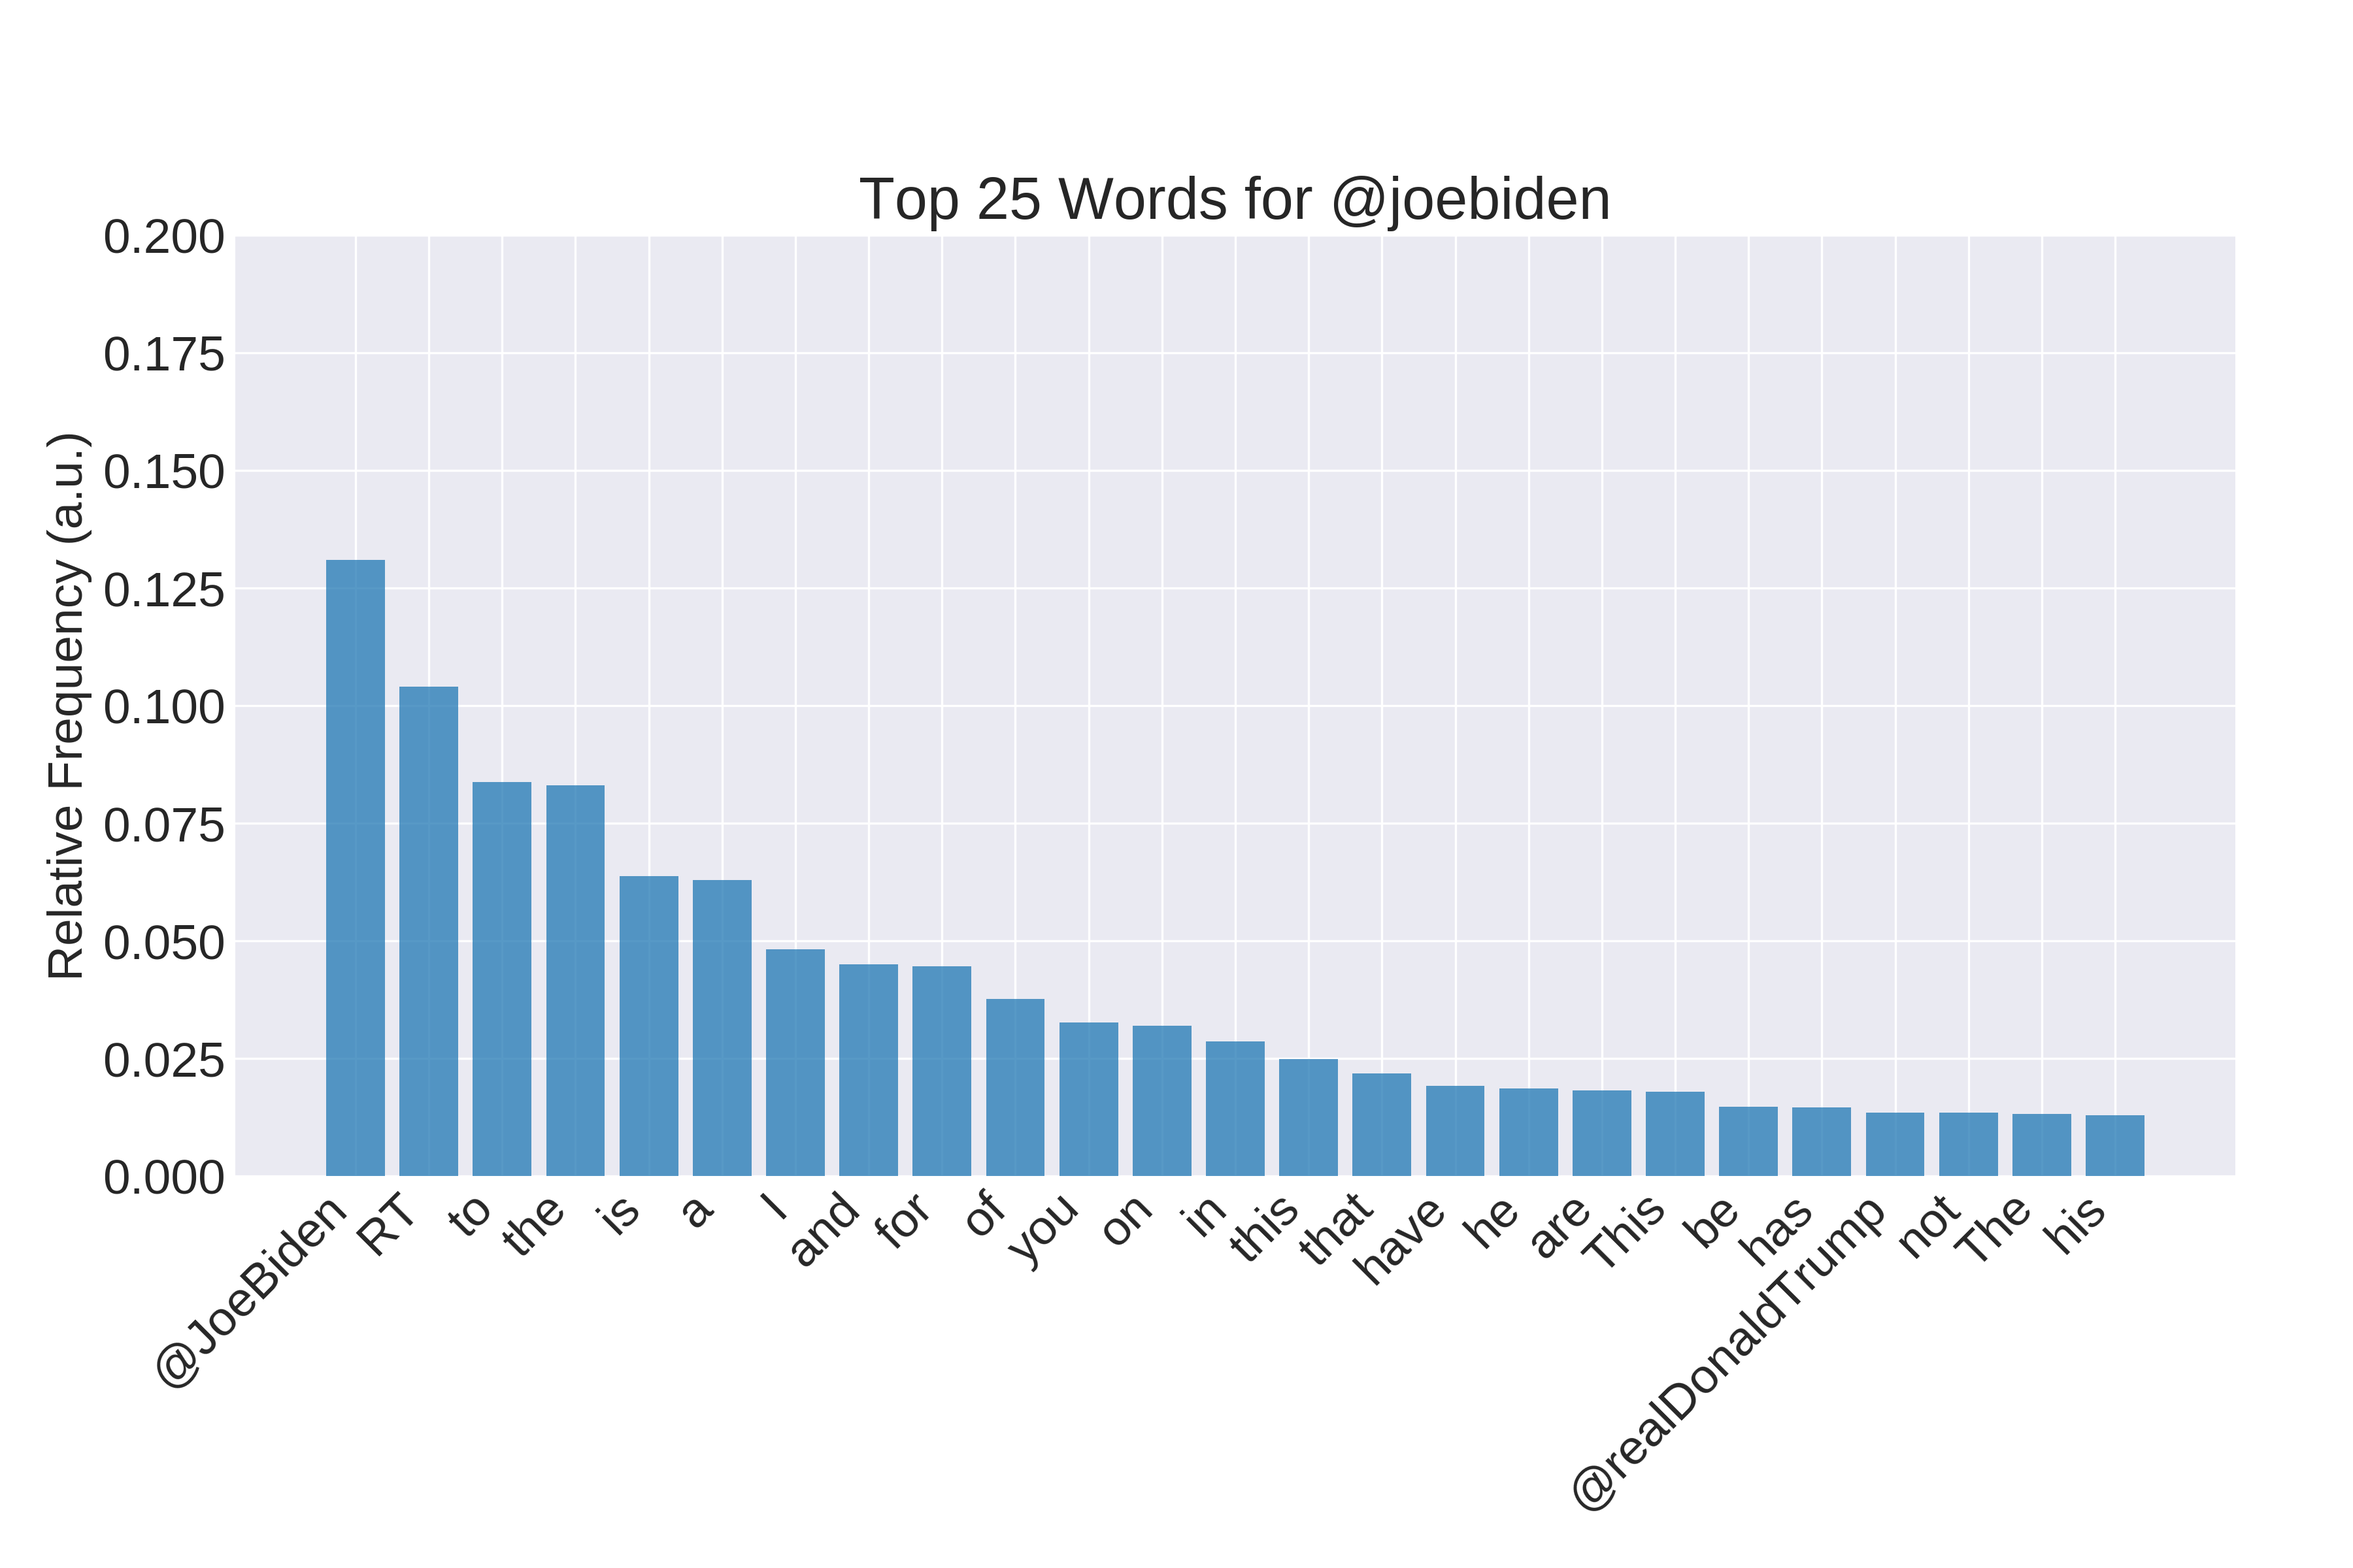
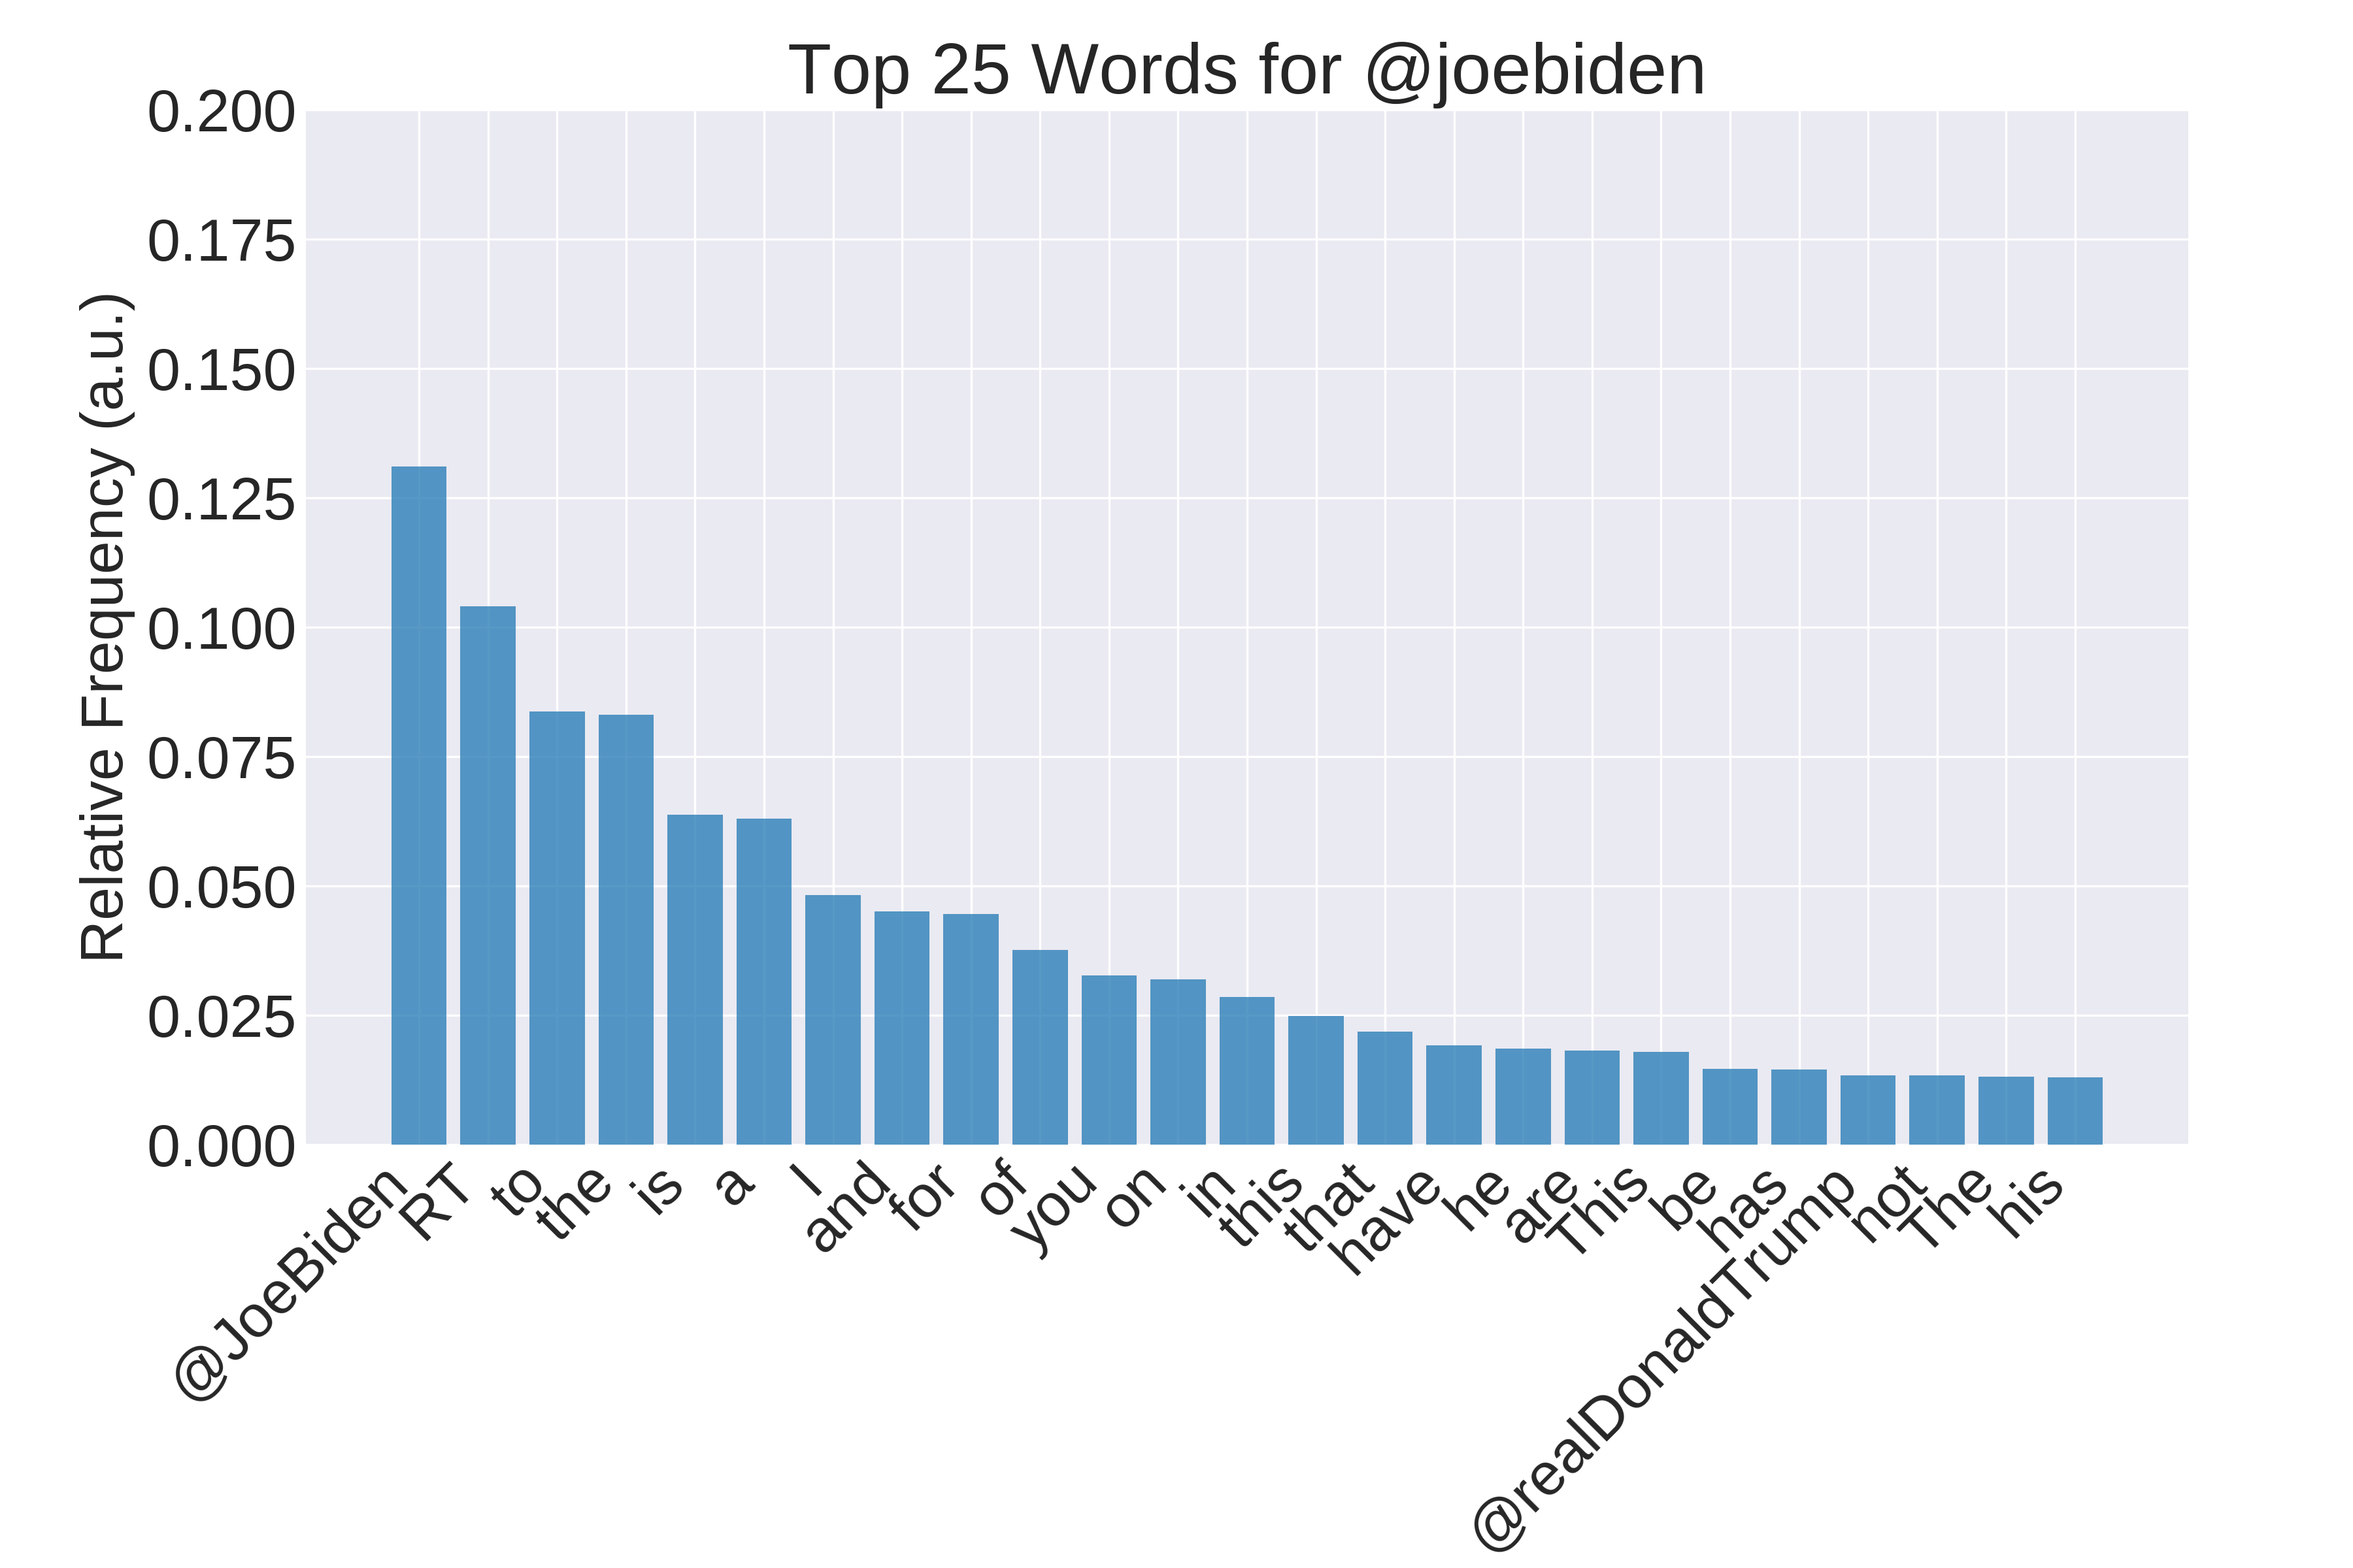
changes to size

diff --git a/src/co_data.py b/src/co_data.py
@@ -4,7 +4,7 @@ import os
 import re
 import matplotlib.pyplot as plt
 plt.style.use('seaborn-darkgrid')
-plt.rcParams.update({'font.size': 18})
+plt.rcParams.update({'font.size': 22})
 
 from sklearn.feature_extraction import stop_words
 stopwords = stop_words.ENGLISH_STOP_WORDS
@@ -85,7 +85,7 @@ def make_barchart(ax, x_label_list, y_data, y_label, title, normalize=True):
         temp = temp/np.sum(temp)
         y_data = list(temp)
 
-    ax.set_position([0.1, 0.25, 0.85, 0.6])
+    ax.set_position([0.13, 0.27, 0.8, 0.66])
     ax.bar(x_vals, y_data, tick_label=x_label_list, align='center', alpha=0.75)
     ax.set_ylabel(y_label)
     ax.set_ylim((0,0.20))

diff --git a/README.md b/README.md
@@ -179,13 +179,13 @@ Most of the fields mentioned above were gathered for future analysis; fields rel
 ## Raw Tweets
 
 <p align="center">
-    <img src="images/CO_0_raw_bar.png" width='450'/>
-    <img src="images/CO_2_raw_bar.png" width='450'/>
-    <img src="images/CO_4_raw_bar.png" width='450'/>
+    <img src="images/CO_0_raw_bar.png" width='300'/>
+    <img src="images/CO_2_raw_bar.png" width='300'/>
+    <img src="images/CO_4_raw_bar.png" width='300'/>
 </p>
 <p align="center">
-    <img src="images/CO_1_raw_bar.png" width='450'/>
-    <img src="images/CO_3_raw_bar.png" width='450'/>
+    <img src="images/CO_1_raw_bar.png" width='300'/>
+    <img src="images/CO_3_raw_bar.png" width='300'/>
 </p>
 Outliine:
 
